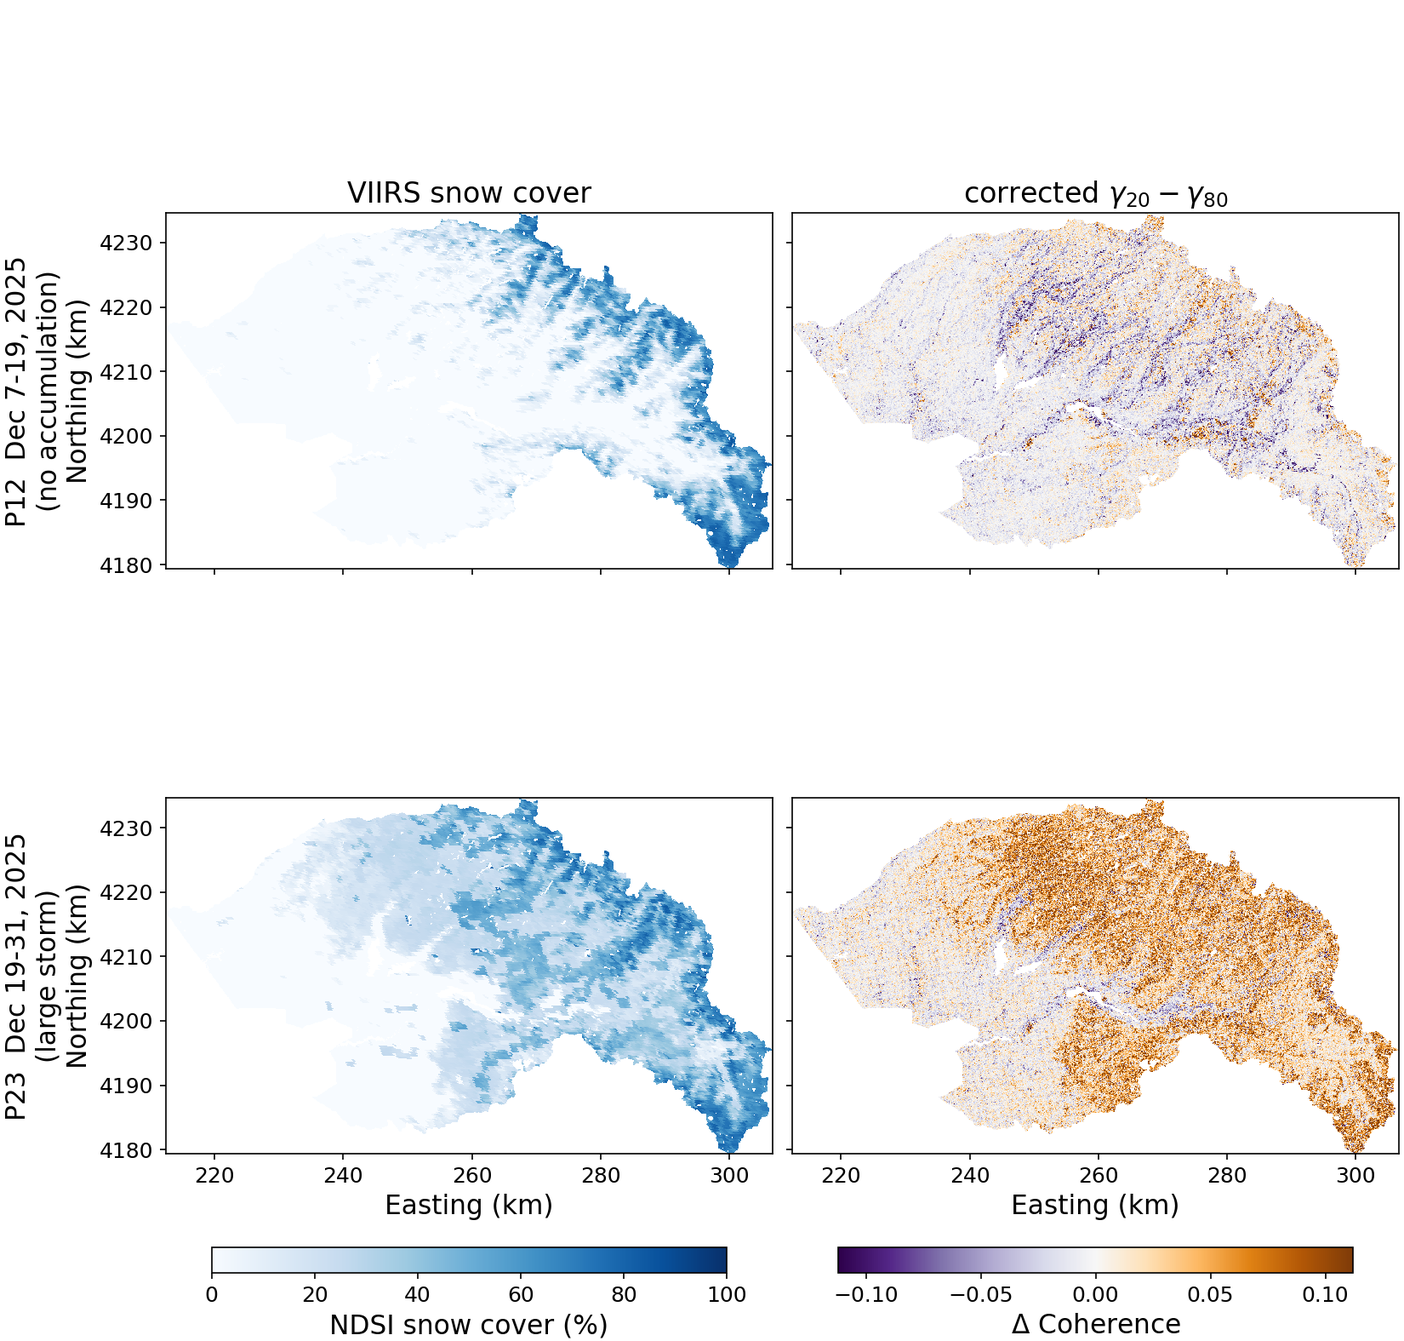
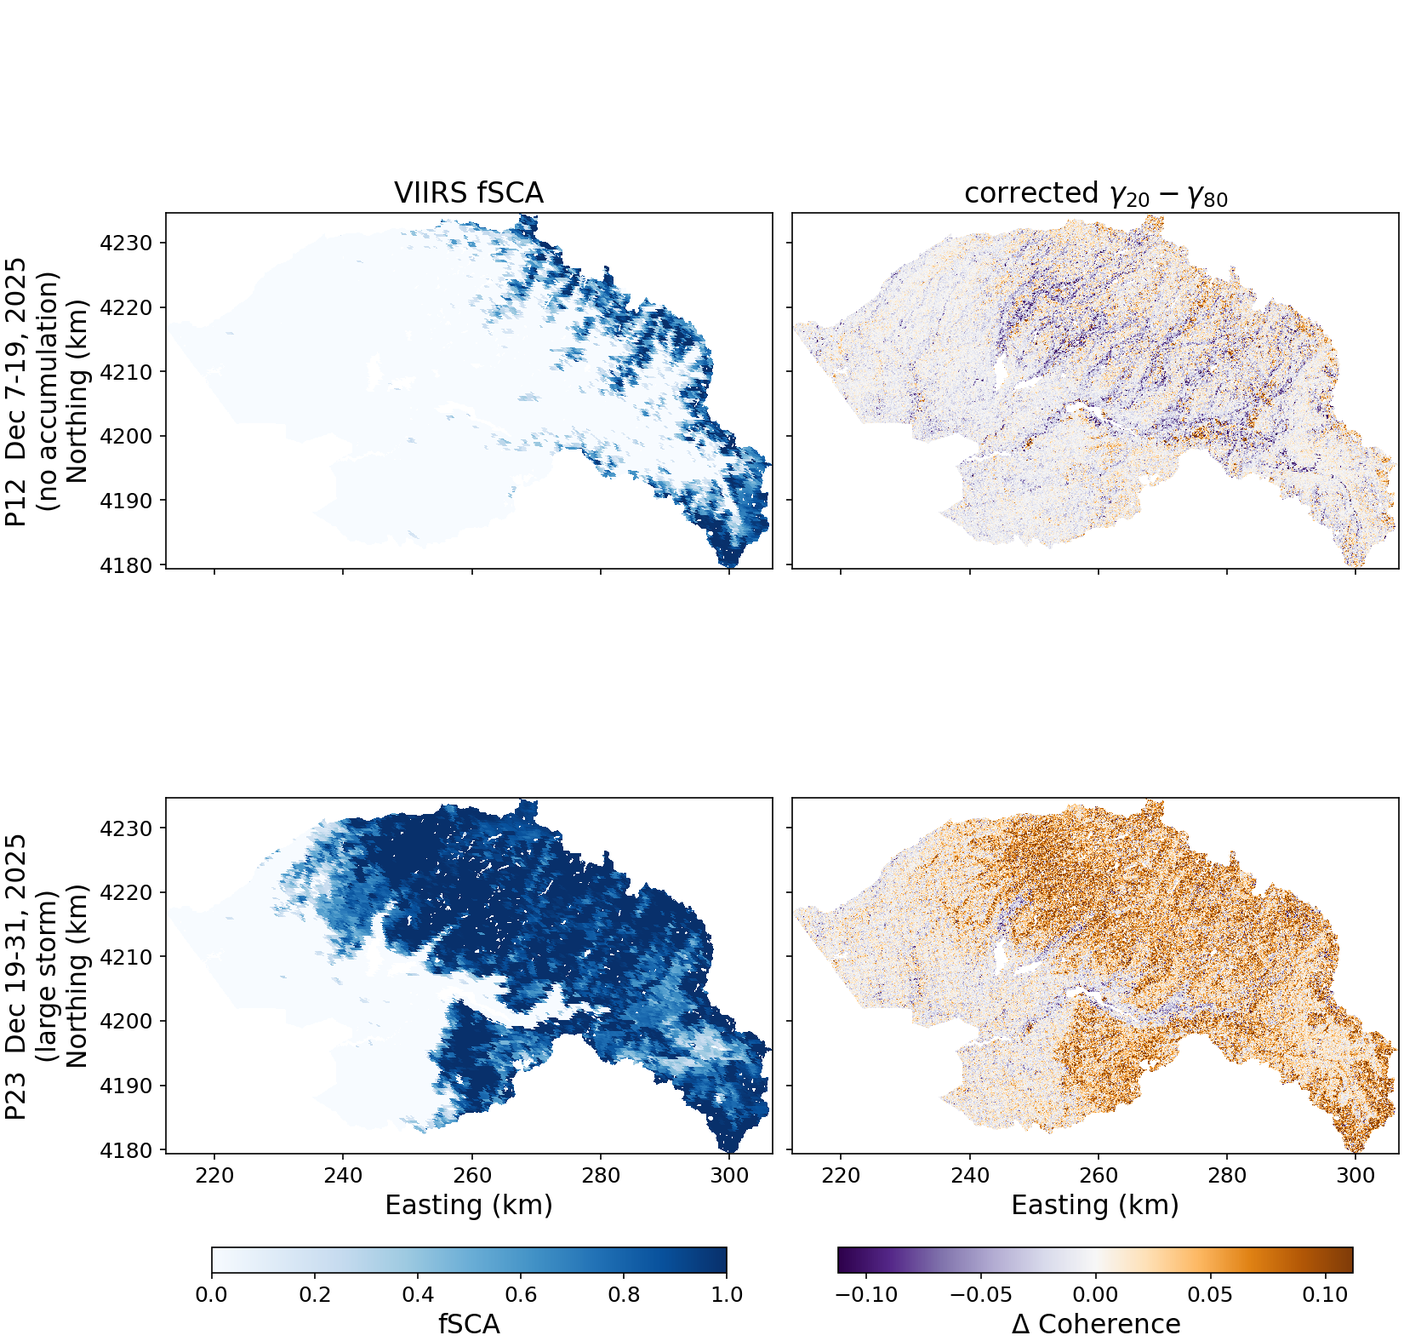
submitting first round to TC

Changed region(s): [[0.1855, 0.5911, 0.5564, 0.8711], [0.2473, 0.1244, 0.5564, 0.4356], [0.2164, 0.9644, 0.4636, 0.9956]]

diff --git a/manuscript/main.tex b/manuscript/main.tex
@@ -318,14 +318,14 @@ Although the basin-median $\Delta\mathrm{SWE}$ ranges over an order of magnitude
 
 \subsection{Coherence Loss and Bias Across Window Sizes}\label{subsec:window-size-results}
 
-The L-band coherence factor falls steeply as the multi-look window grows and then plateaus (Figure~\ref{fig:window_size}, top). The pooled median $|M|$ drops from 0.54 at a 9\,\unit{m} window to 0.33 at 20\,\unit{m} and 0.18 at 81\,\unit{m}, with most of the loss incurred by about 25\,\unit{m}. The interquartile range is wide at every size and stretches further downward as the window grows, spanning 0.07 to 0.38 at 81\,\unit{m}. The two NISAR GUNW postings bracket a large part of the curve. The 20\,\unit{m} wrapped-interferogram footprint retains a median $|M|$ of 0.33 compared to 0.18 at the 80\,\unit{m} footprint, almost double the coherence factor for the same scene.
+The L-band coherence factor falls steeply as the multi-look window grows and then plateaus (Figure~\ref{fig:window_size}, left). The pooled median $|M|$ drops from 0.54 at a 9\,\unit{m} window to 0.33 at 20\,\unit{m} and 0.18 at 81\,\unit{m}, with most of the loss incurred by about 25\,\unit{m}. The interquartile range is wide at every size and stretches further downward as the window grows, spanning 0.07 to 0.38 at 81\,\unit{m}. The two NISAR GUNW postings bracket a large part of the curve. The 20\,\unit{m} wrapped-interferogram footprint retains a median $|M|$ of 0.33 compared to 0.18 at the 80\,\unit{m} footprint, almost double the coherence factor for the same scene.
 
-The L-band retrieval bias stays small across the whole range (Figure~\ref{fig:window_size}, bottom). In usable windows, the median SWE-equivalent bias never exceeds 0.3\,\unit{mm}, and the interquartile range stays within about $\pm2$\,\unit{mm}. The band is slightly asymmetric, with a longer positive tail (matching the within-window $\Delta\mathrm{SWE}$ skew) but the magnitude is negligible compared to the coherence loss. The bias does not grow significantly at any footprint between 9 and 81\,\unit{m}.
+The L-band retrieval bias stays small across the whole range (Figure~\ref{fig:window_size}, right). In usable windows, the median SWE-equivalent bias never exceeds 0.3\,\unit{mm}, and the interquartile range stays within about $\pm2$\,\unit{mm}. The band is slightly asymmetric, with a longer positive tail (matching the within-window $\Delta\mathrm{SWE}$ skew) but the magnitude is negligible compared to the coherence loss. The bias does not grow significantly at any footprint between 9 and 81\,\unit{m}.
 
 \begin{figure}
   \centering
   \includegraphics[width=0.8\linewidth]{figures/5_window_M_arg_vs_size_L.png}
-  \caption{Sub-window coherence factor $|M|$ (\textbf{top}) and retrieval bias $\arg(M)$ (\textbf{bottom}) versus multi-look window size, L-band, pooled over the four lidar pairs (median and shaded interquartile range). Computed on the native 3\,\unit{m} $\Delta\mathrm{SWE}$ field. The bottom panel is restricted to usable windows ($|M|>0.3$) and converted to an L-band SWE-equivalent through $\arg(M)/\kappa$. Dotted lines mark the 20 and 80\,\unit{m} NISAR GUNW postings.}
+  \caption{Sub-window coherence factor $|M|$ (\textbf{left}) and retrieval bias $\arg(M)$ (\textbf{right}) versus multi-look window size, L-band, pooled over the four lidar pairs (median and shaded interquartile range). Computed on the native 3\,\unit{m} $\Delta\mathrm{SWE}$ field. The right panel is restricted to usable windows ($|M|>0.3$) and converted to an L-band SWE-equivalent through $\arg(M)/\kappa$. Dotted lines mark the 20 and 80\,\unit{m} NISAR GUNW postings.}
   \label{fig:window_size}
 \end{figure}
 
@@ -337,7 +337,7 @@ The corrected $\gamma_{20}-\gamma_{80}$ is near zero for the near zero-SWE-chang
 \begin{figure}
   \centering
   \includegraphics[width=1.0\linewidth]{figures/6_coherence_rows_P12_P23.png}
-  \caption{NISAR multi-resolution coherence for the low-snow P12 (December 7--19, 2025) and large-storm P23 (December 19--31, 2025) pairs: observed 80\,\unit{m} coherence $\gamma_{80}$ (\textbf{left}), the finite-look-corrected difference $\gamma_{20}-\gamma_{80}$ (\textbf{center}), and the lidar-predicted sub-window coherence factor $|M|$ (\textbf{right}, WY2025), all on the common 81\,\unit{m} grid.}
+  \caption{NISAR multi-resolution coherence for the low-snow P12 (December 7--19, 2025) and large-storm P23 (December 19--31, 2025) pairs: observed 80\,\unit{m} coherence $\gamma_{80}$ (\textbf{left}), the finite-look-corrected difference $\gamma_{20}-\gamma_{80}$ (\textbf{center}), and the lidar-predicted sub-window coherence factor $|M|$ (\textbf{right}, WY2023), all on the common 81\,\unit{m} grid.}
   \label{fig:coherence_rows}
 \end{figure}
 
@@ -363,7 +363,7 @@ The $\Delta\mathrm{SWE}$ spectral break at $\ell_b \approx 25$\,\unit{m} (Figure
 
 This break sets the window sizes over which the sub-window coherence loss develops. Because the $\Delta\mathrm{SWE}$ field carries increasing variance toward larger scales (Section~\ref{subsec:power_spectral_densities}), the within-window phase spread keeps growing as the footprint expands past $\ell_b$, and the coherence factor falls steadily across the GUNW range. The window-size sweep shows this in $|M|$ directly (Figure~\ref{fig:window_size}). The empirical curve is steepest below about 25\,\unit{m} and flattens beyond, with the slope change near the spectral break --- a flattening driven by $|M|$ approaching its floor once the within-window phase spread exceeds about one radian. Even in this regime the recoverable coherence is substantial: moving from the 80\,\unit{m} GUNW posting to a 20\,\unit{m} footprint nearly doubles the median $|M|$, from 0.18 to 0.33. The coherence recovered per step keeps growing as the window shrinks toward $\ell_b$, so even modest reductions below the GUNW default return usable coherence over the spatially variable snow that decorrelates the 80\,\unit{m} product.
 
-The bias result is promising for SWE retrievals. Across the full 9 to 81\,\unit{m} range, the SWE-equivalent bias in usable windows stays at the millimeter level (Figure~\ref{fig:window_size}, bottom), far below the coherence loss and below the retrieval uncertainty from other sources. The footprint is therefore a coherence tradeoff and not a bias tradeoff. A larger window loses coherence without incurring a meaningful retrieval bias in the pixels that survive a coherence threshold, and a smaller window recovers coherence without introducing bias. The footprint should be chosen to keep $|M|$ usable over the target snowpack, and the residual skew-driven retrieval bias can be neglected in any window that passes a coherence mask.
+The bias result is promising for SWE retrievals. Across the full 9 to 81\,\unit{m} range, the SWE-equivalent bias in usable windows stays at the millimeter level (Figure~\ref{fig:window_size}, right), far below the coherence loss and below the retrieval uncertainty from other sources. The footprint is therefore a coherence tradeoff and not a bias tradeoff. A larger window loses coherence without incurring a meaningful retrieval bias in the pixels that survive a coherence threshold, and a smaller window recovers coherence without introducing bias. The footprint should be chosen to keep $|M|$ usable over the target snowpack, and the residual skew-driven retrieval bias can be neglected in any window that passes a coherence mask.
 
 Shrinking the window has a limit. Smaller windows average fewer pixels, so the random phase noise that multi-looking suppresses, whose variance falls as $1/N$ with the number of looks \citep{Bamler1998}, rises as the footprint shrinks. The best footprint balances the recovered sub-window coherence against this estimation noise and is set by the local $\Delta\mathrm{SWE}$ correlation length, the $\ell_b \approx 25$\,\unit{m} break, rather than a fixed look count. For these Tuolumne events that balance sits well below the 80\,\unit{m} GUNW posting, and large accumulation events such as the December 2025 storm need the finest practical footprint to keep the sub-window term in check. The most wind-exposed terrain, where short-scale variance is largest, will be challenging to recover at any footprint.
 
@@ -455,19 +455,18 @@ First, the radial power spectrum of the 3\,\unit{m} $\Delta\mathrm{SWE}$ field i
 These same bounds explain our processing choices. This per-pixel noise is why the main pipeline pre-averages to 9\,\unit{m} before forming $M$. At the native 3\,\unit{m} posting, the same bounds imply a noise-only $|M|$ near 0.67 at L-band, which the 3$\times$3 block average suppresses to 0.96. The window-size sweep (Section~\ref{subsec:window-size-results}) must run on the native 3\,\unit{m} field to resolve its smallest windows, so its $|M|$ curve carries this noise. Because the per-pixel noise is spatially uncorrelated, its contribution to $M$ is a window-size-independent multiplicative factor, so the shape of the curve, the location of its scale break, and the ratio between footprints are unaffected; only the absolute level is deflated, which is why the sweep $|M|$ is reported as a lower bound.
 
 \section{VIIRS Snow-Cover Cross-Check}\label{appendix:viirs}    %% Appendix B
-
+\appendixfigures
+\appendixfigures
 The corrected multi-resolution residual $\gamma_{20}-\gamma_{80}$ (Section~\ref{subsec:nisar-coherence}) attributes the storm-pair coherence drop to within-window $\Delta\mathrm{SWE}$ variability. As an independent check that this signal tracks snow, rather than a bare-ground or vegetation artifact, we compare it against optical snow cover.
 
-We use the VIIRS daily cloud-gap-filled NDSI snow-cover product VNP10A1F, Version 2 (Suomi-NPP VIIRS, 375\,\unit{m} sinusoidal grid, tile h08v05; distributed by the NSIDC DAAC) \citep{riggs2022vnp10a1f}. The cloud-gap-filled layer carries each cell forward from its most recent clear observation, so every NISAR pair window has continuous coverage. For each NISAR pair we pull the product on three dates spanning its temporal baseline, the no-accumulation pair P12 (December 7, 13, and 19, 2025) and the storm pair P23 (December 19, 25, and 31, 2025), average the NDSI snow cover over the three dates, and reproject it (nearest neighbor) onto the same 81\,\unit{m} grid and WY2023 footprint used for the coherence panels in Figure~\ref{fig:coherence_rows}. Figure~\ref{fig:viirs} places the per-pair snow cover beside the corrected $\gamma_{20}-\gamma_{80}$ for the same pair.
+We use the VIIRS daily cloud-gap-filled NDSI snow-cover product VNP10A1F, Version 2 (Suomi-NPP VIIRS, 375\,\unit{m} sinusoidal grid, tile h08v05; distributed by the NSIDC DAAC) \citep{riggs2022vnp10a1f}. The cloud-gap-filled layer carries each cell forward from its most recent clear observation, so every NISAR pair window has continuous coverage. For each NISAR pair we pull the product on the end date of its temporal baseline (December 19, 2025 for the no-accumulation pair P12 and December 31, 2025 for the storm pair P23), because the decorrelation in an accumulation pair is driven by the new snow, which is only fully on the ground at the end of the baseline. We convert the NDSI snow cover (0--100) to fractional snow-covered area (fSCA) via the linear relation $\mathrm{fSCA} = -0.01 + 1.45\,(\mathrm{NDSI}/100)$, clipped to $[0,1]$ \citep{salomonson2004}, and reproject it (nearest neighbor) onto the same 81\,\unit{m} grid and WY2023 footprint used for the coherence panels in Figure~\ref{fig:coherence_rows}. Figure~\ref{fig:viirs} places the per-pair fSCA beside the corrected $\gamma_{20}-\gamma_{80}$ for the same pair.
 
-Within the surveyed the snow cover increases with elevation toward the high alpine terrain where the storm-pair residual is largest. Across the footprint the corrected residual co-varies with snow cover for the storm pair (Pearson $r=+0.35$, Spearman $\rho=+0.40$; mean snow cover 23\%, median residual $+0.015$) and only weakly for the no-accumulation pair (Pearson $r=+0.10$, Spearman $\rho=+0.12$; mean snow cover 11\%, median residual $-0.005$). The correlation is moderate by construction since the NDSI snow-cover fraction indicates where snow lies rather than how much $\Delta\mathrm{SWE}$ accumulated, which is the quantity that drives the sub-window decorrelation.
-
-\appendixfigures   %% renames appendix figures to B1, B2, etc.
+Within the surveyed footprint, the fSCA increases with elevation toward the high alpine terrain where the storm-pair residual is largest. Across the footprint the corrected residual co-varies with fSCA for the storm pair (Pearson $r=+0.40$, Spearman $\rho=+0.43$; mean fSCA 0.58, median residual $+0.015$) and only weakly for the no-accumulation pair (Pearson $r=+0.08$, Spearman $\rho=+0.09$; mean fSCA 0.12, median residual $-0.005$). The correlation is moderate by construction since fSCA indicates where snow lies rather than how much $\Delta\mathrm{SWE}$ accumulated, which is the quantity that drives the sub-window decorrelation.
 
 \begin{figure}
 \centering
 \includegraphics[width=\linewidth]{figures/B1_snowcover_vs_dgamma.png}
-  \caption{VIIRS VNP10A1F NDSI snow cover (\textbf{left}) and the corrected $\gamma_{20}-\gamma_{80}$ residual (\textbf{right}) for the no-accumulation P12 pair (\textbf{top}) and the large-storm P23 pair (\textbf{bottom}), averaged over each pair's window and shown on the common WY2023 81\,\unit{m} footprint. The storm-pair residual is largest over the high-elevation terrain where snow cover is deepest.}
+  \caption{VIIRS VNP10A1F fractional snow-covered area (fSCA) (\textbf{left}) and the corrected $\gamma_{20}-\gamma_{80}$ residual (\textbf{right}) for the no-accumulation P12 pair (\textbf{top}) and the large-storm P23 pair (\textbf{bottom}), on each pair's end date and shown on the common WY2023 81\,\unit{m} footprint. The storm-pair residual is largest over the high-elevation terrain where fSCA is highest.}
   \label{fig:viirs}
 \end{figure}
 

diff --git a/code/stats/viirs_snowcover_stats.py b/code/stats/viirs_snowcover_stats.py
@@ -1,13 +1,18 @@
-"""viirs_snowcover_stats.py -- VIIRS snow cover vs the corrected gamma_20-gamma_80
+"""viirs_snowcover_stats.py -- VIIRS fSCA vs the corrected gamma_20-gamma_80
 (Appendix B, Figure~\\ref{fig:viirs}).
 
 Source of truth for the Appendix B numbers. Builds, on the WY2023 81 m footprint
 (the same display footprint as Figure~\\ref{fig:coherence_rows}): the per-pair
-VIIRS NDSI snow cover (mean over each pair's three download dates) and the
+VIIRS fractional snow-covered area (fSCA) on each pair's end date and the
 corrected gamma_20-gamma_80 residual. main() prints the per-pair Pearson/Spearman
-correlation and mean snow cover quoted in the appendix; the figure script
+correlation and mean fSCA quoted in the appendix; the figure script
 (visualizations/plot_viirs_snowcover.py) imports build_maps() and only plots, so
 the numbers and the figure stay in sync.
+
+fSCA is derived from the VNP10A1F NDSI snow cover (0-100) via the Salomonson &
+Appel (2004) relation fSCA = -0.01 + 1.45 * NDSI, clipped to [0, 1]. We use each
+pair's end date because the decorrelation in an accumulation pair is driven by
+the new snow, which is only fully on the ground at the end of the baseline.
 
 Run download/fetch_viirs_snowcover.py first to populate raw/viirs/.
 """
@@ -31,49 +36,48 @@ from plot_coherence_rows import load_absM, ad_diff  # noqa: E402  (shared loader
 VIIRS_DIR = DATA_ROOT / "sub_pixel_variability/raw/viirs"
 BAND = "L"
 WY2023 = ("2023Mar02-03", "2023Mar16-17")             # largest ASO footprint
-# (pair prefix, viirs tag, window dates, row label) -- dates must match
+# (pair prefix, viirs tag, end date, row label) -- date must match
 # viirs/fetch_viirs_snowcover.py
-ROWS = [("P12", "p12", ["2025-12-07", "2025-12-13", "2025-12-19"],
+ROWS = [("P12", "p12", "2025-12-19",
          "P12  Dec 7-19, 2025\n(no accumulation)"),
-        ("P23", "p23", ["2025-12-19", "2025-12-25", "2025-12-31"],
+        ("P23", "p23", "2025-12-31",
          "P23  Dec 19-31, 2025\n(large storm)")]
 
 
-def _viirs_mean(tag: str, dates: list[str], template) -> np.ndarray:
-    """Mean VIIRS NDSI snow cover over a pair's dates, on the template grid.
-    NDSI values outside [0, 100] (cloud/water/no-decision flags) are dropped."""
-    stack = []
-    for d in dates:
-        v = (rioxarray.open_rasterio(VIIRS_DIR / f"viirs_{tag}_{d}.tif",
-                                     masked=True).squeeze(drop=True))
-        on = v.rio.reproject_match(template, resampling=Resampling.nearest).values
-        stack.append(np.where((on >= 0) & (on <= 100), on, np.nan))
-    return np.nanmean(np.stack(stack), axis=0)
+def _viirs_fsca(tag: str, date: str, template) -> np.ndarray:
+    """VIIRS fSCA (0-1) on the template grid for a pair's end date. NDSI values
+    outside [0, 100] (cloud/water/no-decision flags) are dropped, then NDSI is
+    converted to fSCA via Salomonson & Appel (2004), clipped to [0, 1]."""
+    v = (rioxarray.open_rasterio(VIIRS_DIR / f"viirs_{tag}_{date}.tif",
+                                 masked=True).squeeze(drop=True))
+    ndsi = v.rio.reproject_match(template, resampling=Resampling.nearest).values
+    ndsi = np.where((ndsi >= 0) & (ndsi <= 100), ndsi, np.nan)
+    return np.clip(-0.01 + 1.45 * (ndsi / 100.0), 0.0, 1.0)
 
 
 def build_maps():
-    """Return (template, mask, maps) where maps[prefix] = {'snow', 'dgamma'} on
+    """Return (template, mask, maps) where maps[prefix] = {'fsca', 'dgamma'} on
     the WY2023 footprint. `template` is the WY2023 |M| DataArray (display grid)."""
     template = load_absM(WY2023, BAND)
     mask = np.isfinite(template.values)               # WY2023 snow footprint
     maps = {}
-    for prefix, tag, dates, _ in ROWS:
-        snow = np.where(mask, _viirs_mean(tag, dates, template), np.nan)
+    for prefix, tag, date, _ in ROWS:
+        fsca = np.where(mask, _viirs_fsca(tag, date, template), np.nan)
         dgamma = np.where(mask, ad_diff(prefix, template), np.nan)
-        maps[prefix] = {"snow": snow, "dgamma": dgamma}
+        maps[prefix] = {"fsca": fsca, "dgamma": dgamma}
     return template, mask, maps
 
 
 def main() -> None:
     _, _, maps = build_maps()
     for prefix, _, _, _ in ROWS:
-        snow, dg = maps[prefix]["snow"], maps[prefix]["dgamma"]
-        m = np.isfinite(snow) & np.isfinite(dg)
-        s, d = snow[m], dg[m]
+        fsca, dg = maps[prefix]["fsca"], maps[prefix]["dgamma"]
+        m = np.isfinite(fsca) & np.isfinite(dg)
+        s, d = fsca[m], dg[m]
         r, _ = pearsonr(s, d)
         rho, _ = spearmanr(s, d)
         print(f"{prefix}: n={m.sum():,}  Pearson r={r:+.3f}  Spearman rho={rho:+.3f}"
-              f"  snow mean={s.mean():.0f}%  dgamma median={np.median(d):+.3f}")
+              f"  fSCA mean={s.mean():.2f}  dgamma median={np.median(d):+.3f}")
     print("\nNote: the ~4.4e5 pixels are strongly spatially autocorrelated, so "
           "per-pixel p-values are meaningless and are not reported.")
 

diff --git a/code/visualizations/plot_viirs_snowcover.py b/code/visualizations/plot_viirs_snowcover.py
@@ -1,6 +1,6 @@
-"""plot_viirs_snowcover.py -- Appendix B figure: VIIRS NDSI snow cover beside the
-corrected gamma_20 - gamma_80, two rows (P12 no-accumulation, P23 storm), matching
-the row order of Figure~\\ref{fig:coherence_rows}.
+"""plot_viirs_snowcover.py -- Appendix B figure: VIIRS fSCA beside the corrected
+gamma_20 - gamma_80, two rows (P12 no-accumulation, P23 storm), matching the row
+order of Figure~\\ref{fig:coherence_rows}.
 
 All map building lives in stats/viirs_snowcover_stats.py (the source of truth for
 the Appendix B numbers); this script imports build_maps()/ROWS and only plots.
@@ -44,8 +44,8 @@ def main() -> None:
     fig, axes = plt.subplots(2, 2, figsize=(11, 10.5), constrained_layout=True)
     im_snow = im_dg = None
     for r, (prefix, _, _, label) in enumerate(ROWS):
-        im_snow = axes[r][0].imshow(maps[prefix]["snow"][sl], extent=ext,
-                                    origin=org, cmap="Blues", vmin=0, vmax=100,
+        im_snow = axes[r][0].imshow(maps[prefix]["fsca"][sl], extent=ext,
+                                    origin=org, cmap="Blues", vmin=0, vmax=1,
                                     interpolation="nearest")
         im_dg = axes[r][1].imshow(maps[prefix]["dgamma"][sl], extent=ext,
                                   origin=org, cmap=CMAP_COHDIFF,
@@ -56,11 +56,11 @@ def main() -> None:
             axes[r][c].tick_params(labelbottom=(r == len(ROWS) - 1))
             if r == len(ROWS) - 1:
                 axes[r][c].set_xlabel("Easting (km)")
-    axes[0][0].set_title("VIIRS snow cover")
+    axes[0][0].set_title("VIIRS fSCA")
     axes[0][1].set_title(r"corrected $\gamma_{20}-\gamma_{80}$")
 
     fig.colorbar(im_snow, ax=[axes[0][0], axes[1][0]], location="bottom",
-                 shrink=0.85, pad=0.02, label="NDSI snow cover (%)")
+                 shrink=0.85, pad=0.02, label="fSCA")
     fig.colorbar(im_dg, ax=[axes[0][1], axes[1][1]], location="bottom",
                  shrink=0.85, pad=0.02, label=r"$\Delta$ Coherence")
 

diff --git a/code/viirs/fetch_viirs_snowcover.py b/code/viirs/fetch_viirs_snowcover.py
@@ -1,11 +1,12 @@
 """Fetch VIIRS VNP10A1F snow cover for the two NISAR pair windows (Appendix B).
 
 Downloads the VIIRS/NPP CGF Snow Cover Daily L3 375 m product (VNP10A1F,
-Version 2; Riggs & Hall 2022, NSIDC DAAC, doi:10.5067/PN50Y51IVNLE) for three
-dates spanning each NISAR pair's temporal baseline:
+Version 2; Riggs & Hall 2022, NSIDC DAAC, doi:10.5067/PN50Y51IVNLE) for the end
+date of each NISAR pair's temporal baseline (the snow extent established over the
+pair, which the accumulating storm only fully reaches at the end):
 
-    P12 (no accumulation) : 2025-12-07, 2025-12-13, 2025-12-19
-    P23 (large storm)     : 2025-12-19, 2025-12-25, 2025-12-31
+    P12 (no accumulation) : 2025-12-19
+    P23 (large storm)     : 2025-12-31
 
 Each granule (sinusoidal tile h08v05, which covers Tuolumne) is written as a
 CRS-tagged GeoTIFF to DATA_ROOT/sub_pixel_variability/raw/viirs/ as
@@ -32,10 +33,10 @@ from tc_paths import DATA_ROOT  # noqa: E402
 
 AOI_LL = [-120.288, 37.714, -119.191, 38.241]   # [W, S, E, N], Tuolumne ASO bounds
 SHORT_NAME = "VNP10A1F"
-# three dates per pair spanning its temporal baseline (must match the windows in
+# end date of each pair's temporal baseline (must match the dates in
 # stats/viirs_snowcover_stats.py)
-PAIR_WINDOWS = {"p12": ["2025-12-07", "2025-12-13", "2025-12-19"],
-                "p23": ["2025-12-19", "2025-12-25", "2025-12-31"]}
+PAIR_WINDOWS = {"p12": ["2025-12-19"],
+                "p23": ["2025-12-31"]}
 VIIRS_DIR = DATA_ROOT / "sub_pixel_variability/raw/viirs"
 
 # VIIRS sinusoidal grid geometry for tile h08v05 (the one covering Tuolumne).
